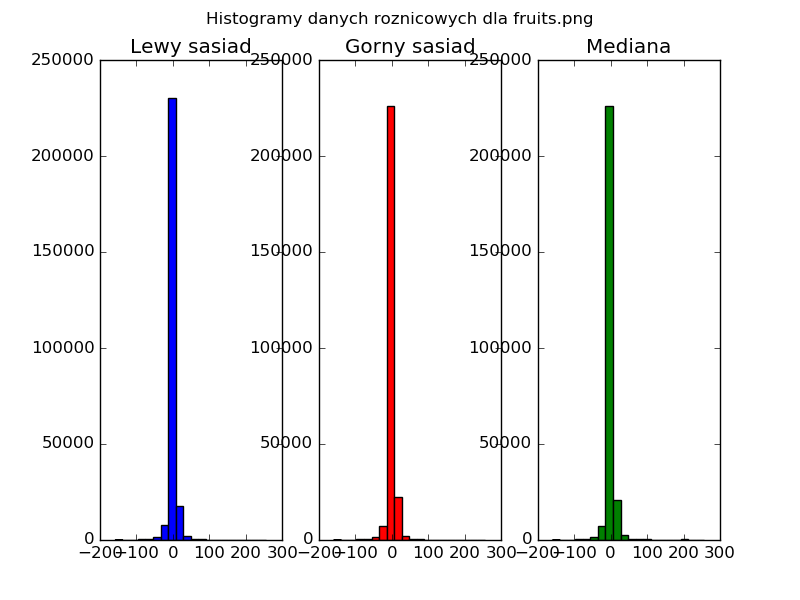
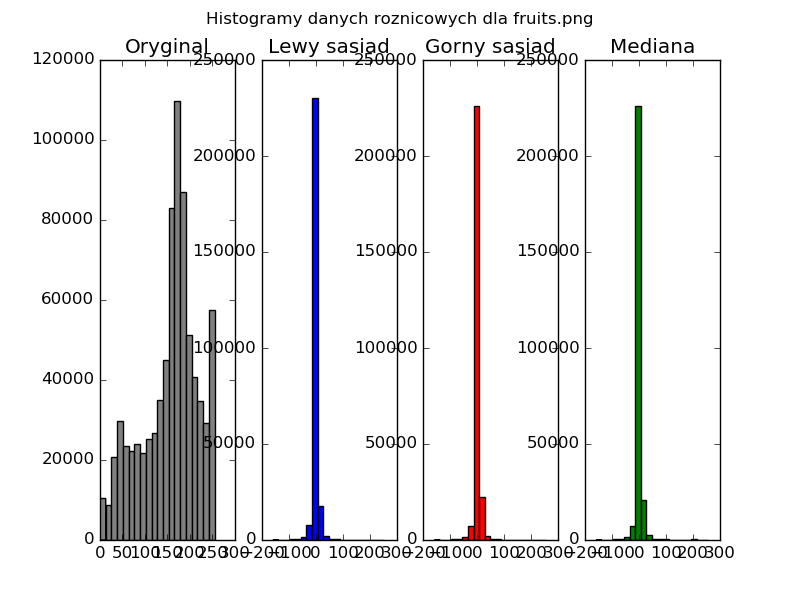
Histograms with original data + Przelaskowski test

diff --git a/main.py b/main.py
@@ -49,13 +49,16 @@ def get_data(images,idx):
 
 def histogram(data,names,idx):
     plt.suptitle('Histogramy danych roznicowych dla ' + names[idx])
-    plt.subplot(1, 3, 1)
+    plt.subplot(1, 4, 1)
+    plt.title('Oryginal')
+    plt.hist(data[0], bins = 20, color='grey')
+    plt.subplot(1, 4, 2)
     plt.title('Lewy sasiad')
     plt.hist(data[1], bins = 20, color='blue')
-    plt.subplot(1, 3, 2)
+    plt.subplot(1, 4, 3)
     plt.title('Gorny sasiad')
     plt.hist(data[2], bins = 20, color='red')
-    plt.subplot(1, 3, 3)
+    plt.subplot(1, 4, 4)
     plt.title('Mediana')
     plt.hist(data[3], bins = 20, color='green')
     #plt.show()
@@ -71,20 +74,21 @@ def information(data,names,idx):
     print("Srednia dlugosc slowa kodowego: " + str(word_length(data[0],code)))
 
     print("Entropia danych roznicowych (gorny sasiad): " + str(entropy(data[1])))
-    code = Coder.encode(data[1])
-    print("Srednia dlugosc slowa kodowego: " + str(word_length(data[1],code)))
+    code1 = Coder.encode(data[1])
+    print("Srednia dlugosc slowa kodowego: " + str(word_length(data[1],code1)))
 
     print("Entropia danych roznicowych (lewy sasiad): " + str(entropy(data[2])))
-    code = Coder.encode(data[2])
-    print("Srednia dlugosc slowa kodowego: " + str(word_length(data[2],code)))
+    code2 = Coder.encode(data[2])
+    print("Srednia dlugosc slowa kodowego: " + str(word_length(data[2],code2)))
 
     print("Entropia danych roznicowych (mediana): " + str(entropy(data[3])))
-    code = Coder.encode(data[3])
-    print("Srednia dlugosc slowa kodowego: " + str(word_length(data[3],code)))
+    code3 = Coder.encode(data[3])
+    print("Srednia dlugosc slowa kodowego: " + str(word_length(data[3],code3)))
 
 def main():
 
     imgs, names = read_images()
+
 
     # ktory obrazek chcemy wczytac
     #idx = 0
@@ -94,6 +98,7 @@ def main():
         histogram(data,names,idx)
         information(data,names,idx)
 
+
     '''
     # Ksiazka przelaskowskiego (str. 81) entropia = 2.176
     test = np.array([1,1,1,1,1,1,
@@ -102,9 +107,19 @@ def main():
         3,3,3,3,
         4,4,4,4,4,
         5,5,5,5])
-    print("Test: " + str(entropy(test))) # = 2.1755200043411453
+    test_pred = ([1,0,0,0,0,0,
+        1,0,0,0,0,0,
+        0,0,0,0,0,0,
+        1,0,0,0,
+        1,0,0,0,0,
+        1,0,0,0])
+    print("Entropia: " + str(entropy(test))) # = 2.1755200043411453
     tcode = Coder.encode(test)
-    print("Test2: " + str(word_length(test,tcode))) # = 2.22580645161
+    print("Dlugosc slowa " + str(word_length(test,tcode))) # = 2.22580645161
+
+    print("Entropia Pred: " + str(entropy(test_pred))) # = 0.6373874992221911
+    tcodet = Coder.encode(test_pred)
+    print("Dlugosc slowa Pred: " + str(word_length(test_pred,tcodet))) # = 1.0
     '''
 
     '''
